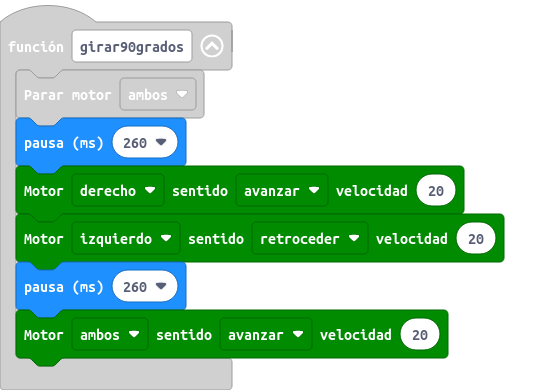
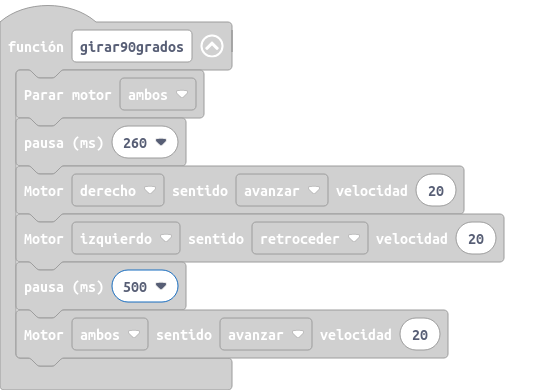
Actualizar main.blocks, main.ts

diff --git a/main.ts b/main.ts
@@ -3,7 +3,7 @@ function girar90grados () {
     basic.pause(260)
     maqueen.motorRun(maqueen.Motors.M2, maqueen.Dir.CW, 20)
     maqueen.motorRun(maqueen.Motors.M1, maqueen.Dir.CCW, 20)
-    basic.pause(260)
+    basic.pause(500)
     maqueen.motorRun(maqueen.Motors.All, maqueen.Dir.CW, 20)
 }
 basic.forever(function () {
